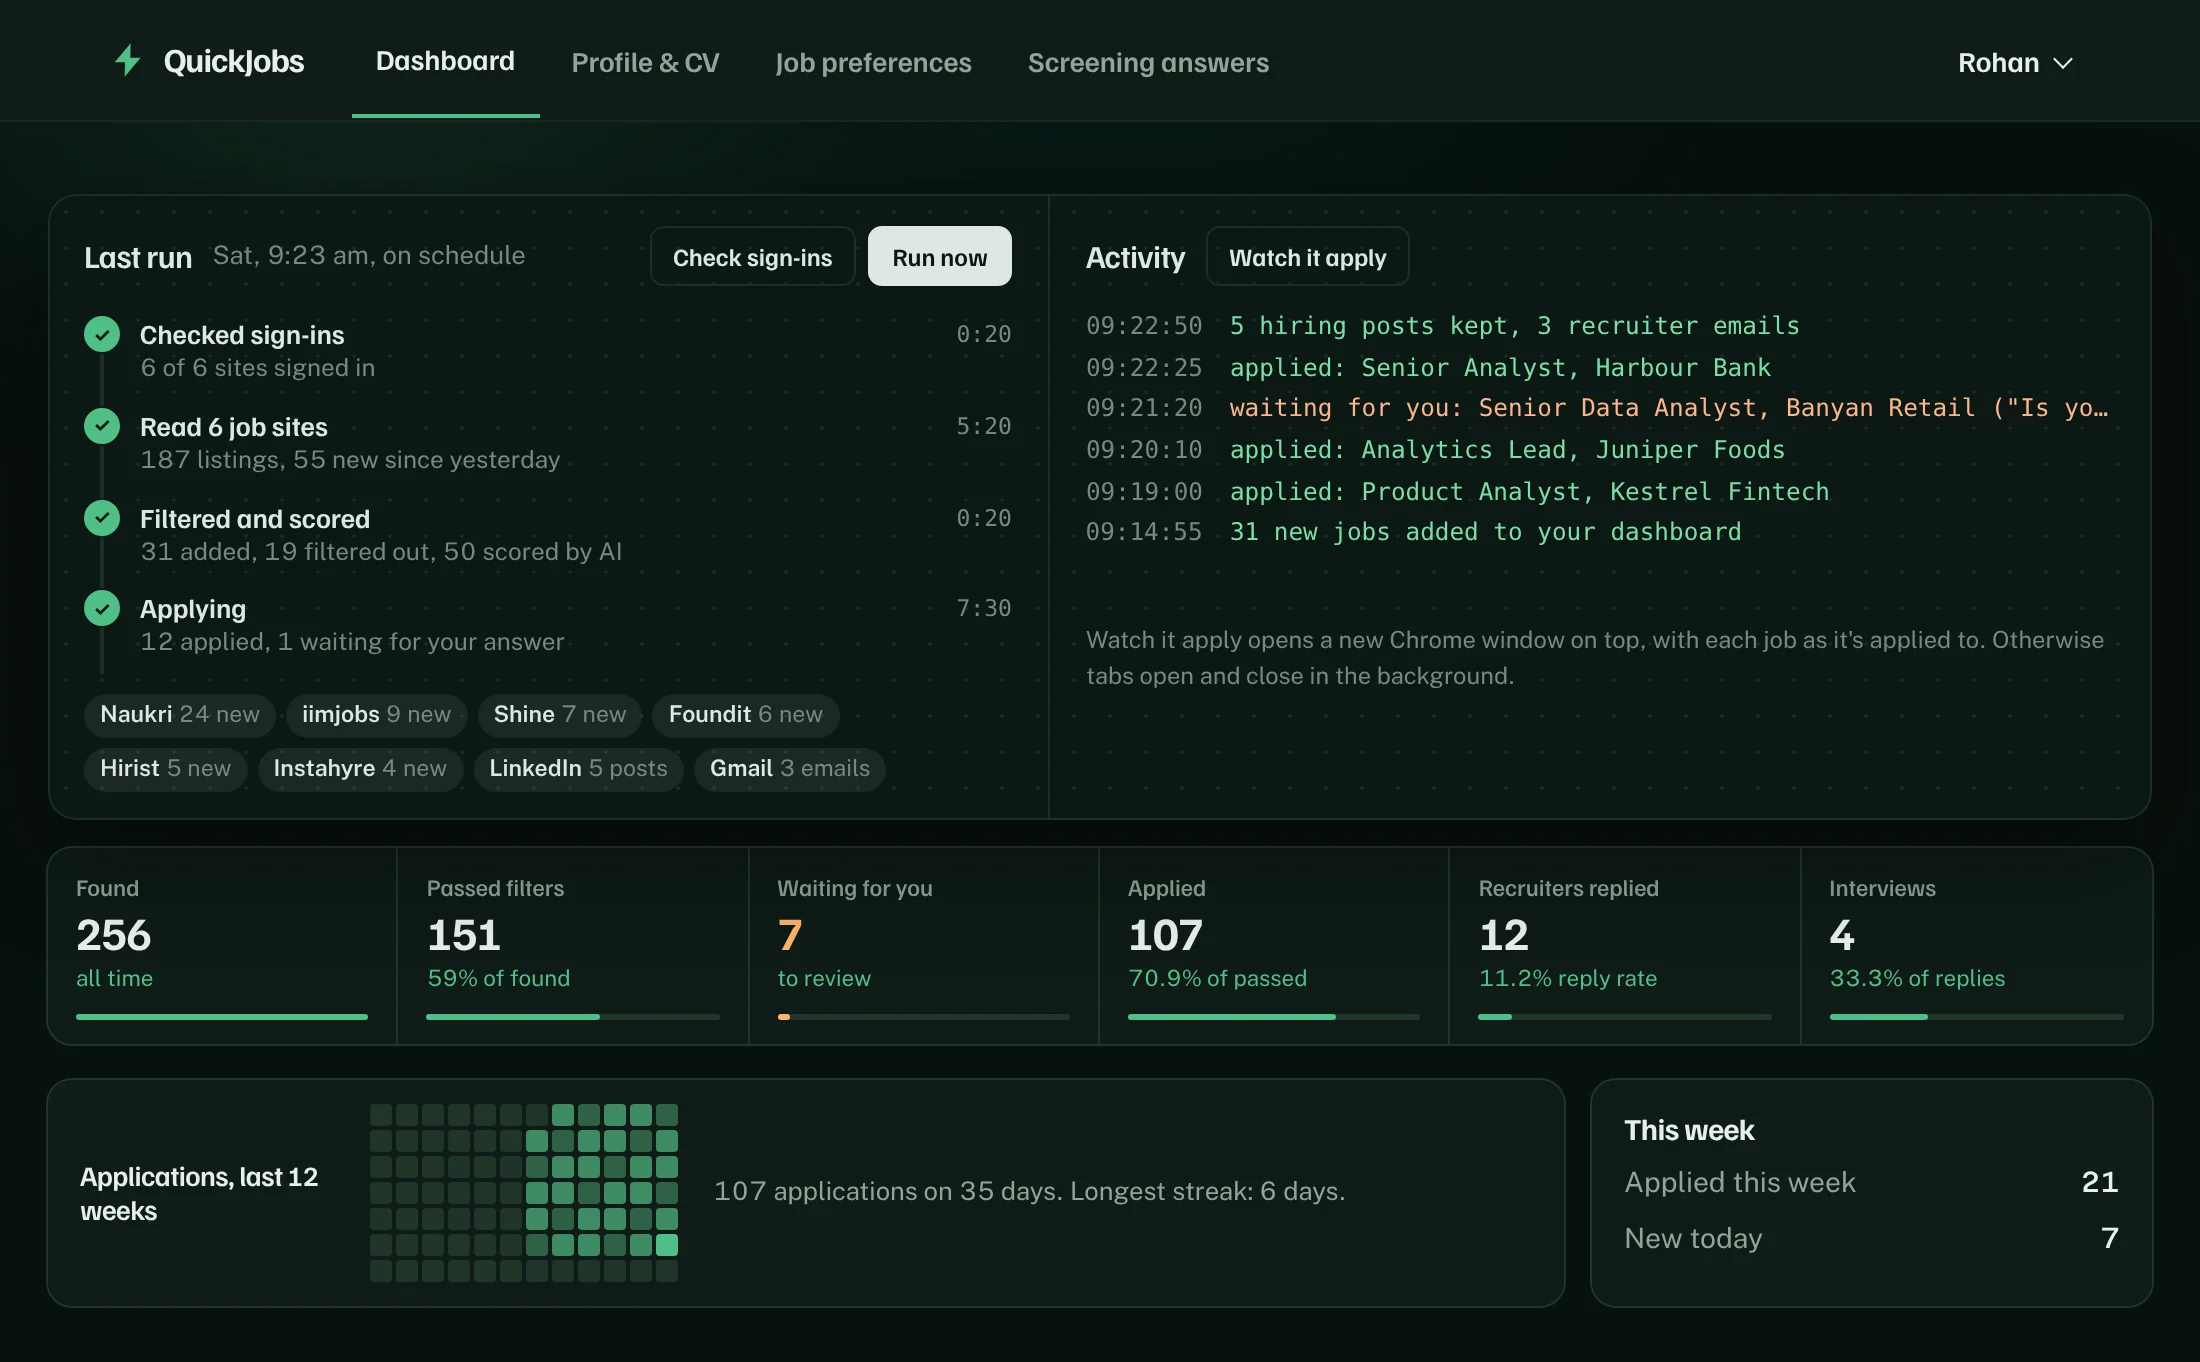
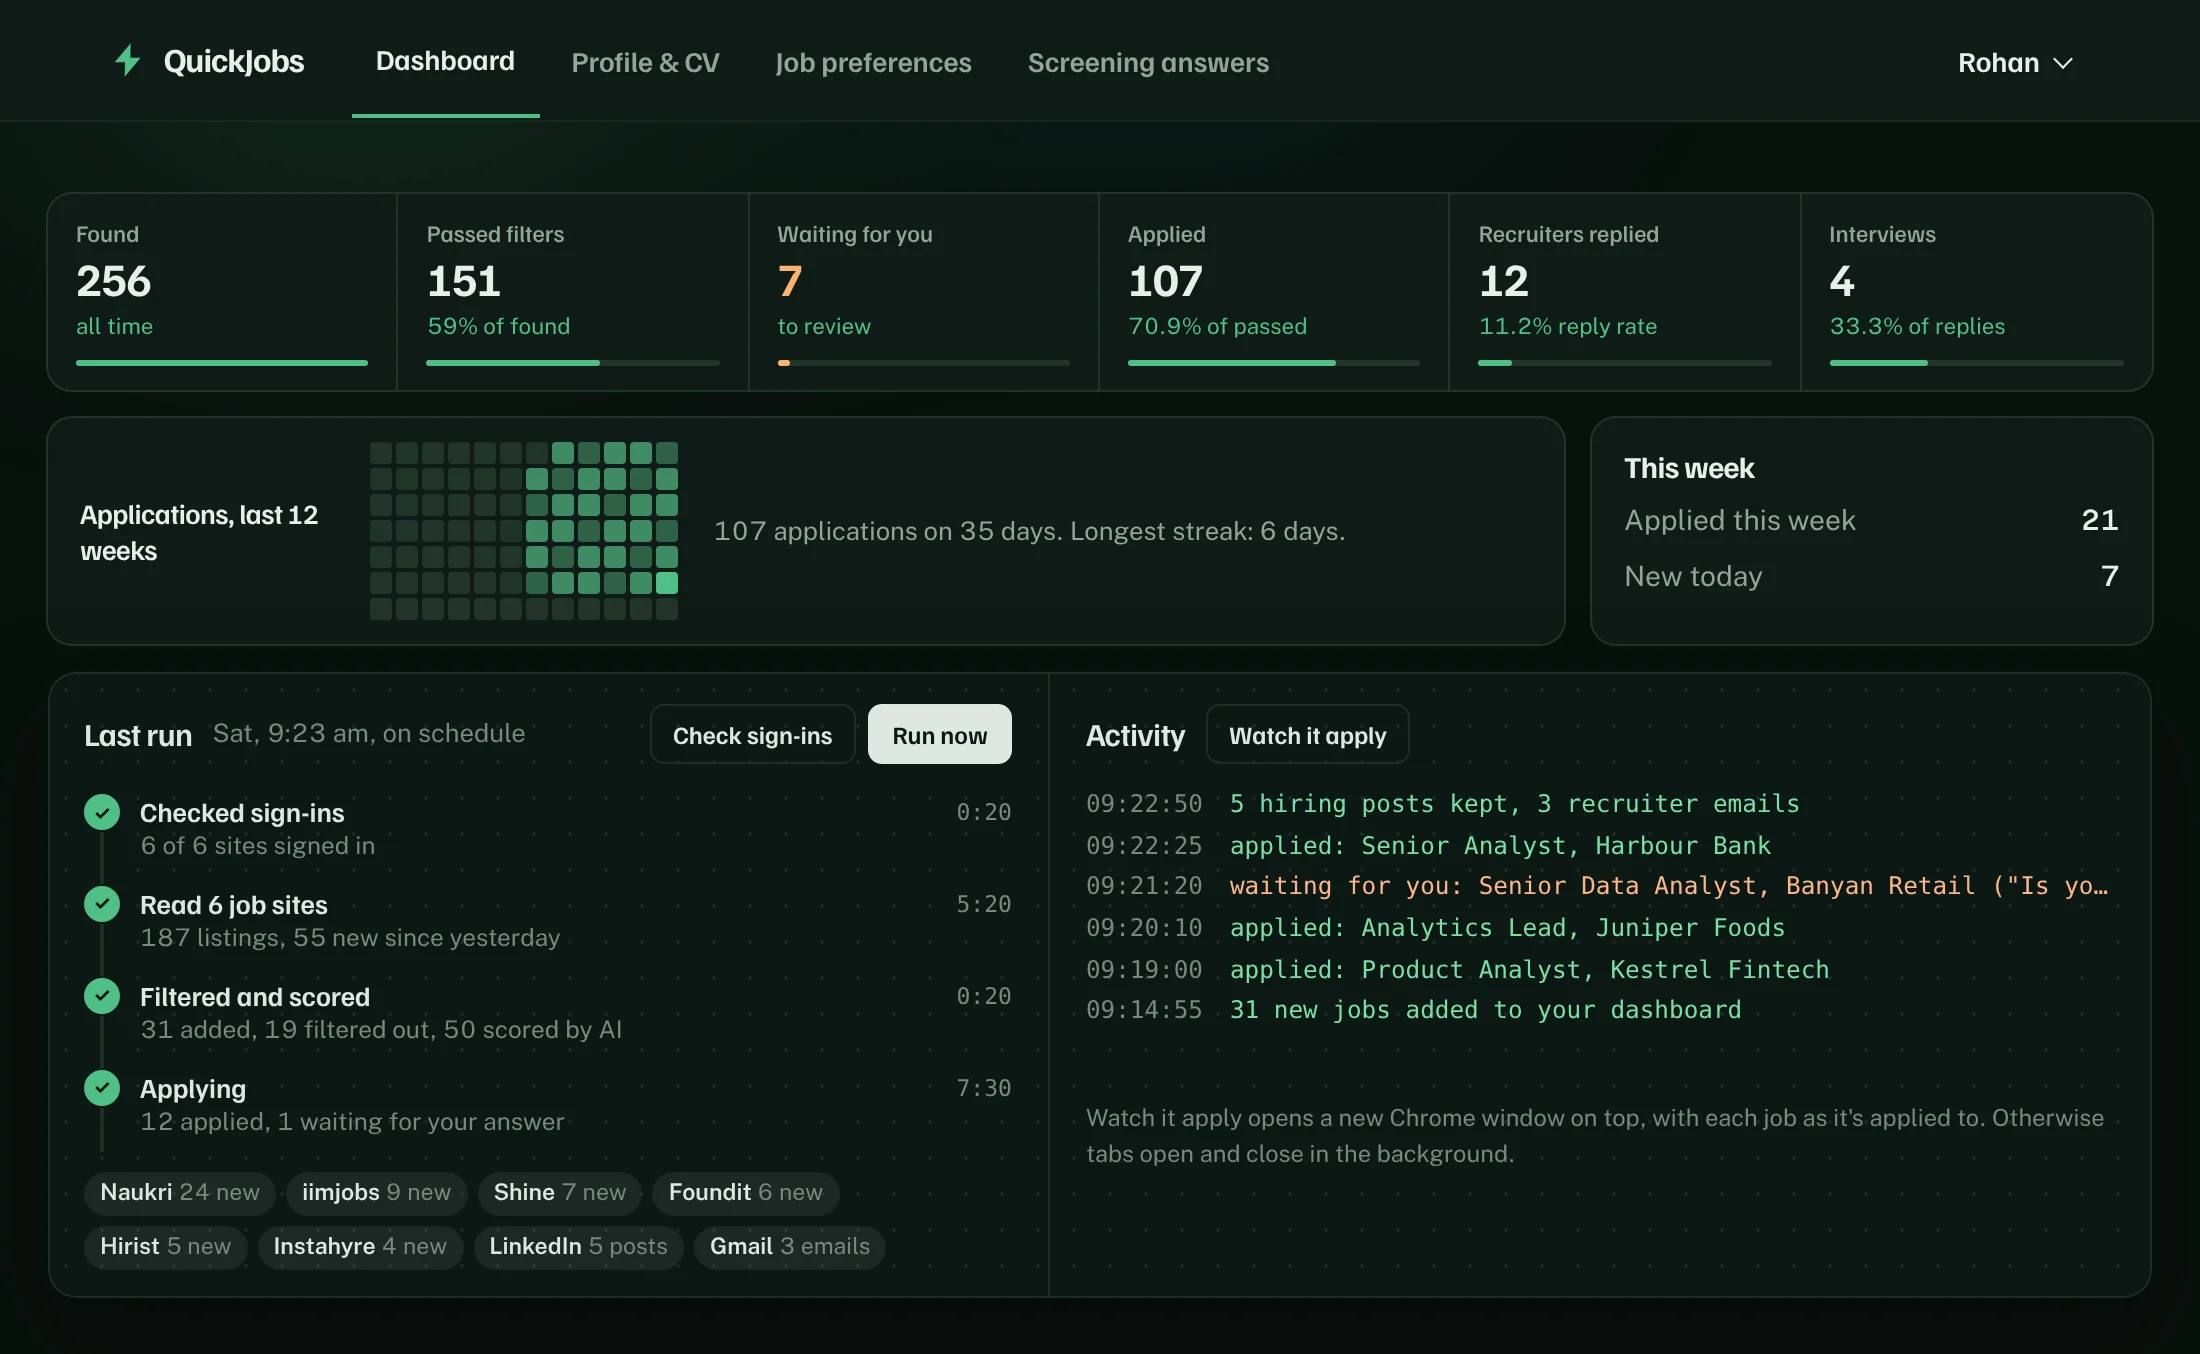
Hero dashboard: metrics first, then the 12-week grid and this week, then the run
Claude-Session: https://claude.ai/code/session_01NjF5BgXvLRmcLrxNLWn9yc

diff --git a/site/index.html b/site/index.html
@@ -121,7 +121,7 @@ img{max-width:100%;display:block;height:auto}
 .stage::before{content:"";position:absolute;inset:8% 6% -6%;background:radial-gradient(60% 60% at 50% 40%,rgba(79,191,134,.28),transparent 70%);filter:blur(40px);z-index:-1}
 .win-img.dash-img{aspect-ratio:auto;position:relative}
 .dash-img img{display:block;width:100%;height:auto}
-.hl-ring{position:absolute;left:var(--rx,81.9%);top:var(--ry,62.2%);width:var(--rw,15.9%);height:var(--rh,14.4%);border:2px solid var(--fern);border-radius:12px;box-shadow:0 0 0 5px rgba(79,191,134,.16),0 0 36px rgba(79,191,134,.45);pointer-events:none}
+.hl-ring{position:absolute;left:var(--rx,81.9%);top:var(--ry,14.3%);width:var(--rw,15.9%);height:var(--rh,14.5%);border:2px solid var(--fern);border-radius:12px;box-shadow:0 0 0 5px rgba(79,191,134,.16),0 0 36px rgba(79,191,134,.45);pointer-events:none}
 @media (prefers-reduced-motion:no-preference){
   .win{animation:rise 1.1s cubic-bezier(.2,.75,.2,1) .15s both;transform-origin:50% 0}
   @keyframes rise{from{opacity:0;transform:translateY(40px) rotateX(14deg)}to{opacity:1;transform:none}}
@@ -548,7 +548,7 @@ footer a:hover{color:var(--fg)}
             <span class="live"><i></i><span>4 interviews<span class="long"> from 107 applications</span></span></span>
           </div>
           <div class="win-img dash-img">
-            <picture><source media="(max-width:640px)" srcset="shots/hero-dash-m.webp" width="780" height="1218"><img src="shots/hero-dash.webp" width="2200" height="1362" alt="The QuickJobs dashboard after six weeks: today's run finished on schedule with 12 applications sent, an activity log of each application, and totals of 256 jobs found, 107 applied, 12 recruiter replies and 4 interviews, above a 12-week grid of application days." fetchpriority="high"></picture>
+            <picture><source media="(max-width:640px)" srcset="shots/hero-dash-m.webp" width="780" height="1218"><img src="shots/hero-dash.webp" width="2200" height="1354" alt="The QuickJobs dashboard after six weeks: totals of 256 jobs found, 107 applied, 12 recruiter replies and 4 interviews, a 12-week grid of application days, and below them today's run, finished on schedule with 12 applications sent, with an activity log of each application." fetchpriority="high"></picture>
             <span class="hl-ring" aria-hidden="true"></span>
           </div>
         </div>
